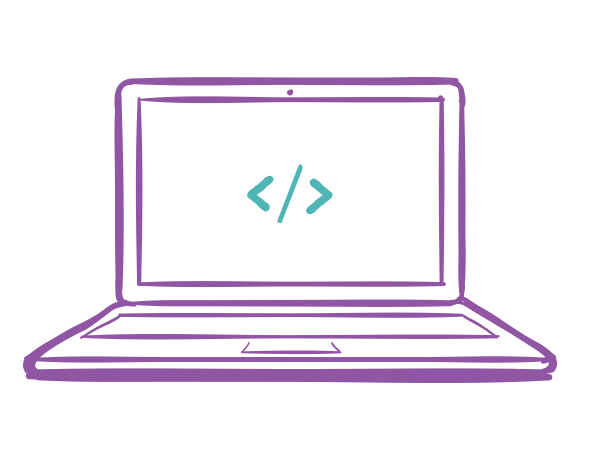
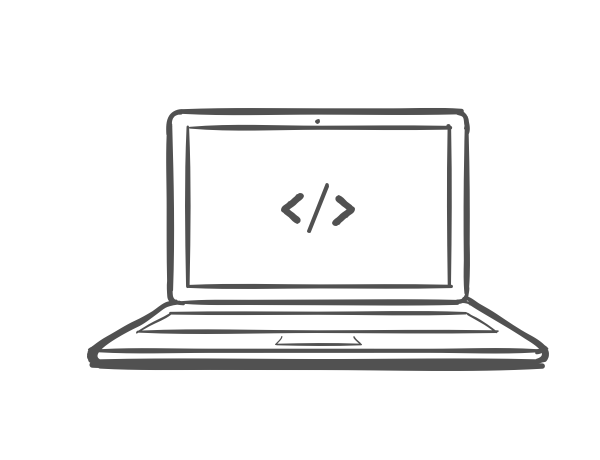
updated graphics

Changed region(s): [[0.03, 0.1522, 0.93, 0.8522], [0.39, 0.3652, 0.6, 0.5174]]

diff --git a/about/index.html b/about/index.html
@@ -55,11 +55,11 @@ testimonials_right:
       <div class="large-8 columns">
         <h3>I'm Sahar Hosseini</h3>
 
-        <p>I’m a digital designer and creative entrepreneur behind Sahar Design with over 10 years of experience of crafting online experiences for companies and brands.
+        <p>I’m a digital designer and creative entrepreneur behind Sahar Design with over 12 years of experience of crafting online experiences for companies and brands.
           My goal is to help brands and products tell their stories in a way that’s both inspired and functional.
           From product and UX design, to user interfaces, to art direction, I can handle all aspects of the digital process.</p>
 
-        <p>I’ve worked with startup companies such as Strutta, QuickMobile, Work at Play and had the opportunity to work with
+        <p>I’ve worked with startup companies such as Strutta, QuickMobile, Work at Play, iQmetrix and had the opportunity to work with
           some of the world’s top brands such as Microsoft, Salesforce, Google, Intel, Disney, Accenture, Sundance,
           TCM, MTV and Virgin Holidays.</p>
 
